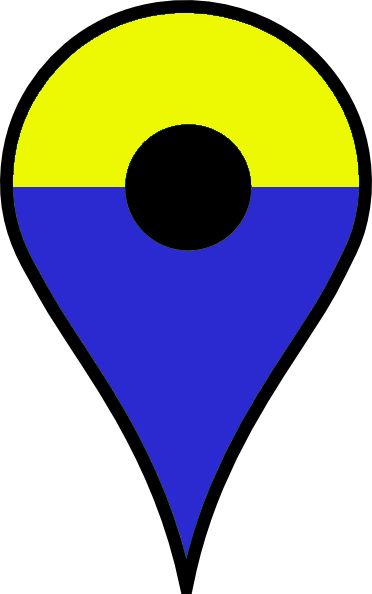
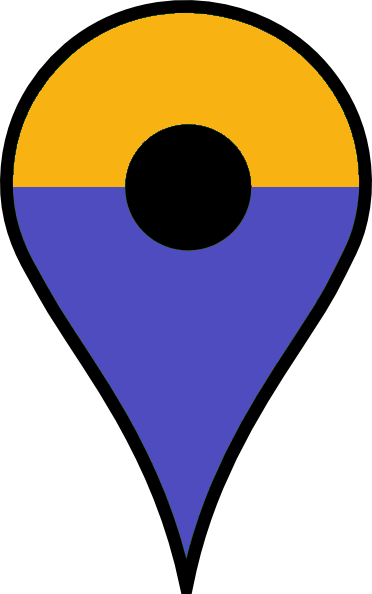
map map map

diff --git a/public/javascripts/journey.js b/public/javascripts/journey.js
@@ -1,4 +1,4 @@
-var routesapp = angular.module("routesapp", ['ngResource', 'ngRoute', 'ngFileUpload' , 'uiGmapgoogle-maps', 'ui.bootstrap', 'ngMap']);
+var routesapp = angular.module("routesapp", ['ngResource', 'ngRoute', 'ngFileUpload' , 'ui.bootstrap', 'ngMap']);
 routesapp.config(['$routeProvider', function($routeProvider){
     $routeProvider
         .when('/journeys/overview', {
@@ -24,8 +24,8 @@ routesapp.config(['$routeProvider', function($routeProvider){
 
 }]);
 
-app.controller('PlanCtrl', ['$scope', '$resource', 'uiGmapGoogleMapApi', '$routeParams','NgMap',
-    function($scope, $resource, uiGmapGoogleMapApi, $routeParams, NgMap){
+app.controller('PlanCtrl', ['$scope', '$resource', '$routeParams','NgMap','$timeout',
+    function($scope, $resource, $routeParams, NgMap, $timeout){
         var inProgress = 2;
 
 
@@ -35,7 +35,8 @@ app.controller('PlanCtrl', ['$scope', '$resource', 'uiGmapGoogleMapApi', '$route
         var owners;
         var position;
         var map;
-
+        var personIds = [];
+        var oldvehicle;
         $scope.wayPoints = [];
 
         function refreshMap(){
@@ -44,10 +45,12 @@ app.controller('PlanCtrl', ['$scope', '$resource', 'uiGmapGoogleMapApi', '$route
             var markers = [];
             var teller = 0;
             journey.persons.forEach(function(person){
+                personIds.push(person._id);
                 var ret = {};
                 ret.lat = person.location.lat;
                 ret.lng = person.location.lng;
                 ret.pos = teller;
+                ret.title = person.firstname + " " + person.lastname;
                 ret.icon = {};
                 ret.icon.size = [372, 594];
                 ret.icon.origin = [0,0];
@@ -78,19 +81,64 @@ app.controller('PlanCtrl', ['$scope', '$resource', 'uiGmapGoogleMapApi', '$route
             $scope.markers = markers;
         };
 
+        function updateDirections(){
+            if (typeof($scope.selectedVehicle) !== 'undefined') {
+                //oldvehicle.passengers.forEach(function(p){
+                //    if (p.canDrive){
+                //        $scope.markers[journey.persons.map(function (e) {
+                //            return e._id
+                //        }).indexOf(p._id)].icon.url = "../images/fadedbluemarker.png";
+                //    }else {
+                //        $scope.markers[journey.persons.map(function (e) {
+                //            return e._id
+                //        }).indexOf(p._id)].icon.url = "../images/fadedredmarker.png";
+                //    }
+                //});
+                if ($scope.selectedVehicle.owner != null) {
+                    $scope.destination = [$scope.selectedVehicle.owner.location.lat, $scope.selectedVehicle.owner.location.lng];
+                } else {
+                    $scope.destination = null;
+                }
+                $timeout(function () {
+                    $scope.wayPoints = [];
+                    $scope.selectedVehicle.passengers.forEach(function (p) {
+                        if (p.canDrive) {
+                            $scope.markers[journey.persons.map(function (e) {
+                                return e._id
+                            }).indexOf(p._id)].icon.url = "../images/selectedbluemarker.png";
+                        } else {
+                            $scope.markers[journey.persons.map(function (e) {
+                                return e._id
+                            }).indexOf(p._id)].icon.url = "../images/selectedredmarker.png";
+                        }
+                        $scope.wayPoints.push({location: {lat: p.location.lat, lng: p.location.lng}, stopover: true});
+
+                    });
+                }, 50);
+
+
+
+            }
+            //oldvehicle = $scope.selectedVehicle;
+        }
+
         function handleComplete() {
             // main function
 
             if (!--inProgress) {
                 $scope.journey = journey;
-                $scope.vehicles = journey.vehicles;
-                $scope.selectedVehicle = journey.vehicles[0];
+                vehicles = journey.vehicles.filter(function(v){
+                    return v.owner;
+                });
+                $scope.vehicles = vehicles;
+                $scope.selectedVehicle = vehicles[0];
+                oldvehicle = vehicles[0];
 
                 $scope.selectedPerson = null;
                 $scope.origin = [50.9591399, 5.5050771];
 
                 refreshMap();
-                $scope.updateDirections();
+                updateDirections();
             }
         };
 
@@ -101,10 +149,6 @@ app.controller('PlanCtrl', ['$scope', '$resource', 'uiGmapGoogleMapApi', '$route
         Journey.get({id: $routeParams.id} ,function(obj) {
             journey = obj;
             handleComplete();
-        });
-
-        uiGmapGoogleMapApi.then(function(maps) {
-
         });
 
         NgMap.getMap().then(function(m) {
@@ -119,40 +163,34 @@ app.controller('PlanCtrl', ['$scope', '$resource', 'uiGmapGoogleMapApi', '$route
             position = pos;
             $scope.selectedPerson = journey.persons[pos];
 
-            journey.vehicles.forEach(function(v, index){
-                if (v.owner != null && v.owner._id == journey.persons[pos]){
-                    $scope.selectedVehicle = journey.vehicles[index];
-
+            vehicles.forEach(function(v, index){
+                if (v.owner != null && v.owner._id == journey.persons[pos]._id){
+                    $scope.selectedVehicle = vehicles[index];
+                    $scope.updateDirections();
                 }
             });
         };
 
-        $scope.updateDirections = function(){
-            $scope.wayPoints = [];
-            $scope.destination = [$scope.selectedVehicle.owner.location.lat, $scope.selectedVehicle.owner.location.lng];
-            $scope.selectedVehicle.passengers.forEach(function(p){
-                $scope.wayPoints.push({location: {lat: p.location.lat, lng: p.location.lng}, stopover: true});
-            });
-
+        $scope.vehicleChange = function(){
+            updateDirections();
         };
 
         $scope.addToVehicle = function(){
             var p = $scope.selectedPerson;
             var v = $scope.selectedVehicle;
-            if (p.isPas){
+            if (!p.isPas && v.passengers.length < v.passengersNr - 1){
                 $scope.selectedPerson.isPas = true;
                 $scope.selectedVehicle.passengers.push(p);
                 p.vehicle = v._id;
                 if (p.canDrive){
-                    $scope.markers[position].icon.url = "../images/fadedbluemarker.png";
+                    $scope.markers[position].icon.url = "../images/selectedbluemarker.png";
                 }else {
-                    $scope.markers[position].icon.url = "../images/fadedredmarker.png";
+                    $scope.markers[position].icon.url = "../images/selectedredmarker.png";
                 }
                 $scope.wayPoints.push({location: {lat: p.location.lat, lng: p.location.lng}, stopover: true});
 
                 var Journey = $resource('/journeys/addPassenger');
                 Journey.save(p);
-                console.log(p);
             }
         };
 

diff --git a/public/javascripts/persons.js b/public/javascripts/persons.js
@@ -1,4 +1,4 @@
-var personsapp = angular.module("personsapp", ['ngResource', 'ngRoute', 'ngFileUpload' , 'uiGmapgoogle-maps']);
+var personsapp = angular.module("personsapp", ['ngResource', 'ngRoute', 'ngFileUpload']);
 personsapp.config(['$routeProvider', function($routeProvider){
     $routeProvider
         .when('/persons/excel', {
@@ -23,50 +23,50 @@ personsapp.config(['$routeProvider', function($routeProvider){
 
 
 
-personsapp.controller('MapCtrl', ['$scope', '$resource', 'uiGmapGoogleMapApi',
-    function($scope, $resource, uiGmapGoogleMapApi){
-        var Persons = $resource('/persons/allPersons');
-        var persons = [];
-        Persons.query(function(personobjs){
-            persons = personobjs;
-        });
-
-        uiGmapGoogleMapApi.then(function(maps) {
-
-            $scope.map = { center: { latitude:  51.5, longitude: 19.5 }, zoom: 6 };
-
-            $scope.onClick = function(data){
-                alert('test');
-                console.log(data);
-            };
-            $scope.theMarkers = [];
-            var markers = [];
-            persons.forEach(function(person){
-                var ret = {};
-                if (person.canDrive){
-                    if (person.vehicle === null){
-                        ret = {latitude: person.location.lat, longitude: person.location.lng, title: person.fullname, id: person._id, icon: { url: 'images/bluemarker.png',
-                            size: new google.maps.Size(256, 256),
-                            origin: new google.maps.Point(0, 0),
-                            anchor: new google.maps.Point(15, 30),
-                            scaledSize: new google.maps.Size(30, 30)}};
-                    }else {
-                        ret = {latitude: person.location.lat, longitude: person.location.lng, title: person.fullname, id: person._id, icon: { url: 'images/greenmarker.png',
-                            size: new google.maps.Size(372, 594),
-                            origin: new google.maps.Point(0, 0),
-                            anchor: new google.maps.Point(11.625, 37.125),
-                            scaledSize: new google.maps.Size(23.25, 37.125)}};
-                    }
-
-                }else {
-                    ret = {latitude: person.location.lat, longitude: person.location.lng, title: person.fullname, id: person._id};
-                }
-
-                markers.push(ret);
-            });
-            $scope.theMarkers = markers;
-        });
-    }]);
+//personsapp.controller('MapCtrl', ['$scope', '$resource',
+//    function($scope, $resource, uiGmapGoogleMapApi){
+//        var Persons = $resource('/persons/allPersons');
+//        var persons = [];
+//        Persons.query(function(personobjs){
+//            persons = personobjs;
+//        });
+//
+//        uiGmapGoogleMapApi.then(function(maps) {
+//
+//            $scope.map = { center: { latitude:  51.5, longitude: 19.5 }, zoom: 6 };
+//
+//            $scope.onClick = function(data){
+//                alert('test');
+//                console.log(data);
+//            };
+//            $scope.theMarkers = [];
+//            var markers = [];
+//            persons.forEach(function(person){
+//                var ret = {};
+//                if (person.canDrive){
+//                    if (person.vehicle === null){
+//                        ret = {latitude: person.location.lat, longitude: person.location.lng, title: person.fullname, id: person._id, icon: { url: 'images/bluemarker.png',
+//                            size: new google.maps.Size(256, 256),
+//                            origin: new google.maps.Point(0, 0),
+//                            anchor: new google.maps.Point(15, 30),
+//                            scaledSize: new google.maps.Size(30, 30)}};
+//                    }else {
+//                        ret = {latitude: person.location.lat, longitude: person.location.lng, title: person.fullname, id: person._id, icon: { url: 'images/greenmarker.png',
+//                            size: new google.maps.Size(372, 594),
+//                            origin: new google.maps.Point(0, 0),
+//                            anchor: new google.maps.Point(11.625, 37.125),
+//                            scaledSize: new google.maps.Size(23.25, 37.125)}};
+//                    }
+//
+//                }else {
+//                    ret = {latitude: person.location.lat, longitude: person.location.lng, title: person.fullname, id: person._id};
+//                }
+//
+//                markers.push(ret);
+//            });
+//            $scope.theMarkers = markers;
+//        });
+//    }]);
 
 personsapp.controller('ExcelCtrl', ['$scope', 'Upload', '$timeout', function ($scope, Upload, $timeout) {
     $scope.uploadFiles = function(file, errFiles) {

diff --git a/public/journeys/plan.html b/public/journeys/plan.html
@@ -14,12 +14,12 @@
     <div class="col-lg-4">
         <div class="col-lg-12">
             <h2>Auto</h2>
-            <select ng-model="selectedVehicle" ng-options="vehicle.licenceplate for vehicle in vehicles" ng-change="updateDirections()"></select>
+            <select ng-model="selectedVehicle" ng-options="vehicle.licenceplate for vehicle in vehicles" ng-change="vehicleChange()"></select>
             <p>Plaatsen: {{ selectedVehicle.passengersNr }}</p>
             <p>Merk: {{ selectedVehicle.brand }}</p>
             <p>Type: {{ selectedVehicle.type }}</p>
+            <p ng-show="selectedVehicle.owner">Chauffeur: {{ selectedVehicle.owner.firstname + ' ' + selectedVehicle.owner.lastname}}</p>
             <ol>
-                <li ng-show="selectedVehicle.owner">{{ selectedVehicle.owner.firstname + ' ' + selectedVehicle.owner.lastname}}</li>
                 <li ng-repeat="passenger in selectedVehicle.passengers">{{ passenger.firstname + ' ' + passenger.lastname }}</li>
             </ol>
         </div>
@@ -34,12 +34,12 @@
     </div>
     <div class="col-lg-8">
         <ng-map zoom="6" style="height:600px">
-            <marker ng-repeat="marker in markers" position="[{{marker.lat}},{{marker.lng}}]" on-click="onMarkerClick({{marker.pos}})" icon="{{marker.icon}}" >
+            <marker ng-repeat="marker in markers" position="[{{marker.lat}},{{marker.lng}}]" on-click="onMarkerClick({{marker.pos}})" title="{{marker.title}}" icon="{{marker.icon}}" >
             </marker>
             <directions
                     draggable="true"
-                    preserveViewport="true"
-                    suppressMarkers="true"
+                    preserve-viewport="true"
+                    suppress-markers="true"
                     travel-mode="DRIVING"
                     origin="{{origin}}"
                     waypoints="{{wayPoints}}"

diff --git a/controllers/journeys.js b/controllers/journeys.js
@@ -38,7 +38,7 @@ router.get('/:id', function(req, res) {
     });
 });
 
-router.post('/updateVehicle', function(req){
+router.post('/updateVehicle', function(req, res){
     Vehicle.findOne({_id:req.body._id}).exec(function(err, veh){
         if (err) return console.error(err);
         if (veh.owner != null){
@@ -57,6 +57,8 @@ router.post('/updateVehicle', function(req){
         pers.vehicle = req.body._id;
         pers.save();
     });
+    res.status(201);
+    res.send('success');
 });
 
 router.post('/addPassenger', function(req, res){
@@ -71,6 +73,7 @@ router.post('/addPassenger', function(req, res){
         });
     });
     res.status(201);
+    res.send('success');
 });
 
 router.post('/addVehicle', function(req, res){

diff --git a/controllers/vehicles.js b/controllers/vehicles.js
@@ -18,12 +18,14 @@ router.get('/all', function(req, res) {
 router.put('/:id', function(req, res){
     Vehicle.findOneAndUpdate({_id:req.params.id},{$set: {licenceplate: req.body.licenceplate, type: req.body.type, brand: req.body.brand, passengersNr:req.body.passengersNr}}).exec();
     res.status(201);
+    res.send('success');
 });
 
 router.delete('/:id', function(req, res){
     Vehicle.findOne({_id:req.params.id}).remove().exec();
     Person.findOneAndUpdate({vehicle: req.params.id},{$set: {vehicle:null}}).exec();
     res.status(201);
+    res.send('success');
 });
 
 module.exports = router;

diff --git a/public/javascripts/travellapp.js b/public/javascripts/travellapp.js
@@ -9,13 +9,7 @@ app.config(['$routeProvider', function($routeProvider){
         .otherwise({
             redirectTo: '/'
         });
-}], function(uiGmapGoogleMapApiProvider){
-    uiGmapGoogleMapApiProvider.configure({
-        key: 'AIzaSyCJOLfo5eFbcn_lBz9i7YNzvgwTazgLdMU',
-        v: '3.20' //defaults to latest 3.X anyhow
-
-    });
-});
+}]);
 app.run(['$location', '$rootScope', '$route', 'AuthService', function($location, $rootScope, $route, AuthService) {
     $rootScope.$on('$routeChangeSuccess', function (event, current, previous) {
         $rootScope.title = current.$$route.title;

diff --git a/controllers/persons.js b/controllers/persons.js
@@ -73,12 +73,14 @@ router.get('/all', function(req, res) {
     });
 });
 
-router.put('/:id', function(req){
+router.put('/:id', function(req, res){
     Person.findOneAndUpdate({_id:req.params.id},{$set: {isPas:true}}).exec();
     Vehicle.findOne({_id:req.body.vId}, function(err, v){
         if (err) return console.error(err);
         v.passengers.push(req.params.id);
         v.save();
+        res.status(201);
+        res.send('success');
     });
 });
 
